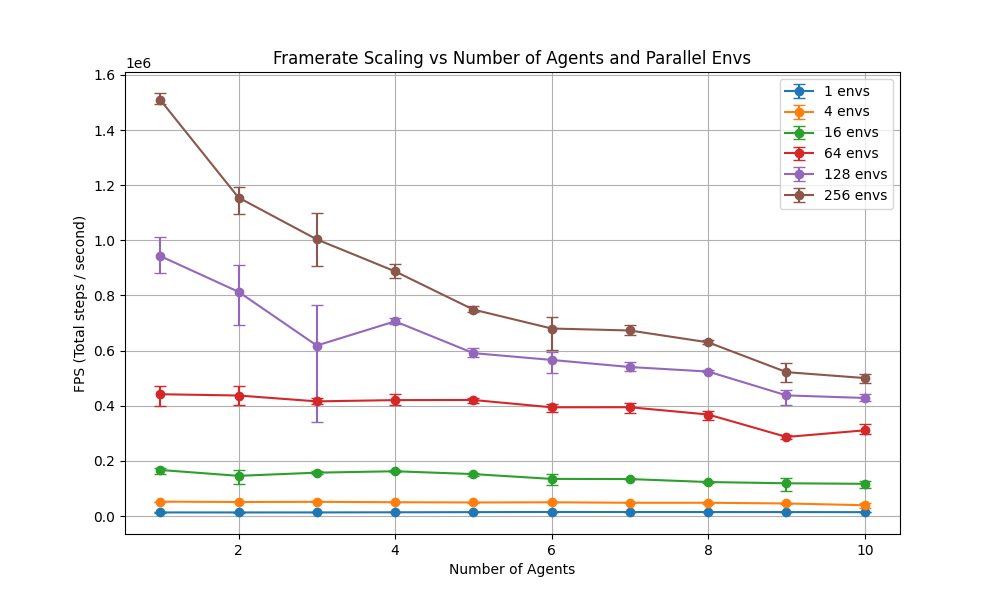
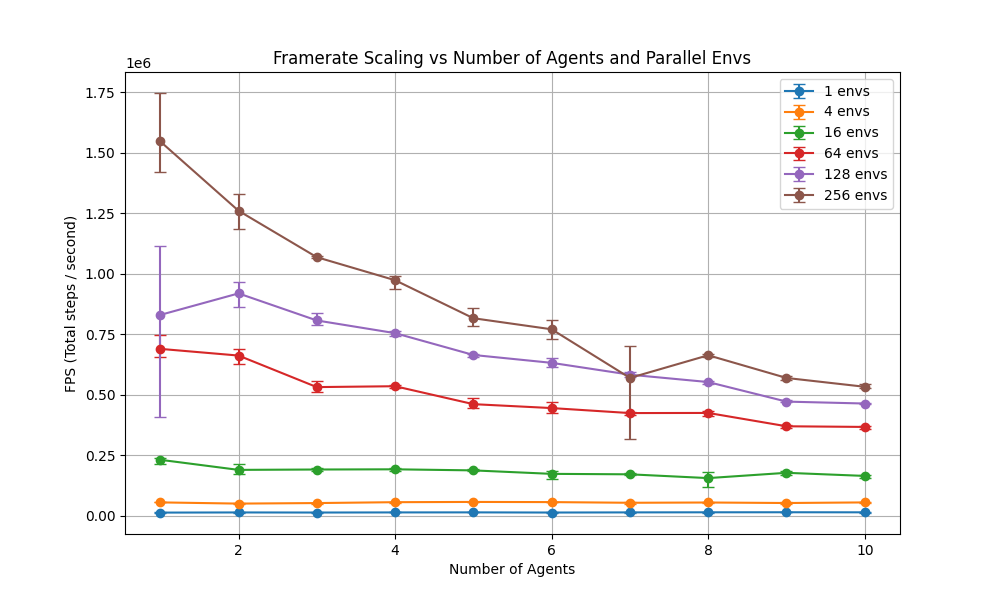
no more critical

diff --git a/src/batched_env.cpp b/src/batched_env.cpp
@@ -1024,21 +1024,8 @@ public:
             reset_env(e);
     }
 
-    // Timing accumulators
-    inline static std::chrono::duration<double> t_process_movement{0};
-    inline static std::chrono::duration<double> t_resolve_interactions{0};
-    inline static std::chrono::duration<double> t_radio_logs{0};
-    inline static std::chrono::duration<double> t_update_counters{0};
-    inline static std::chrono::duration<double> t_post_processing{0};
-    inline static std::chrono::duration<double> t_fill_torch_obs{0};
-    inline static std::chrono::duration<double> t_fill_torch_state{0};
-    inline static std::chrono::duration<double> t_reset_time{0};
-    inline static std::chrono::duration<double> t_python_overhead{0};
-    inline static std::chrono::duration<double> t_total{0};
-
     void step(py::array_t<float, py::array::c_style | py::array::forcecast> move_actions_array, py::array_t<int, py::array::c_style> radio_actions_array)
     {
-        auto t_step_start = std::chrono::high_resolution_clock::now();
         // action space is box2d[dx, dy], discrete(num radio choices)
         if ((move_actions_array.ndim() != 1) || (radio_actions_array.ndim() != 1))
             throw std::invalid_argument("actions must have shape [E*A*2] for movement and [E*A] for radio");
@@ -1048,100 +1035,37 @@ public:
         const float *act_data = move_actions_array.data();
         const int *radio_act_data = radio_actions_array.data();
 
-        std::memset(individual_rewards, 0, num_envs * n_agents * sizeof(float));
-
-        auto t0 = std::chrono::high_resolution_clock::now();
 #pragma omp parallel for schedule(static)
         for (int e = 0; e < num_envs; ++e)
         {
-            auto t_reset_s = std::chrono::high_resolution_clock::now();
+            std::memset(individual_rewards + e * n_agents, 0, n_agents * sizeof(float));
+
             if (env_terminated[e] || env_truncated[e])
                 reset_env(e);
 
-            // std::cout << "Env " << e << " process movement\n";
-            auto t1 = std::chrono::high_resolution_clock::now();
             process_agent_movement(e, act_data);
-            auto t2 = std::chrono::high_resolution_clock::now();
-            // std::cout << "Env " << e << " resolve interactions\n";
             resolve_local_interactions(e);
-            auto t3 = std::chrono::high_resolution_clock::now();
-            // std::cout << "Env " << e << " radio logs\n";
             execute_radio(e, radio_act_data);
-            auto t4 = std::chrono::high_resolution_clock::now();
-            // std::cout << "Env " << e << " update counters\n";
             update_battery_and_counters(e);
-            auto t5 = std::chrono::high_resolution_clock::now();
 
-            // std::cout << "Env " << e << " post processing\n";
             bool all_saved = (*env_views[e].poi_left == 0);
             bool all_out_of_battery = (*env_views[e].agents_left == 0);
             const bool timeout = current_frames[e] >= max_frames;
             env_terminated[e] = all_saved || all_out_of_battery;
             env_truncated[e] = timeout;
             ++current_frames[e];
-            auto t6 = std::chrono::high_resolution_clock::now();
 
-            // If we are using this environment for machine learning
-            // then fill the torch buffers accordingly
-            // std::cout << "Env " << e << " fill torch\n";
             if (mode == Mode::DECENTRALIZED || mode == Mode::CENTRALIZED)
             {
                 fill_torch_obs(e);
             }
-            auto t7 = std::chrono::high_resolution_clock::now();
             if (requires_state)
             {
                 fill_torch_state(e);
             }
-            auto t8 = std::chrono::high_resolution_clock::now();
-
-#pragma omp critical
-            {
-                t_reset_time += (t1 - t_reset_s);
-                t_process_movement += (t2 - t1);
-                t_resolve_interactions += (t3 - t2);
-                t_radio_logs += (t4 - t3);
-                t_update_counters += (t5 - t4);
-                t_post_processing += (t6 - t5);
-                t_fill_torch_obs += (t7 - t6);
-                t_fill_torch_state += (t8 - t7);
-            }
         }
-        auto t9 = std::chrono::high_resolution_clock::now();
-
-        auto t_step_end = std::chrono::high_resolution_clock::now();
-        t_total += (t_step_end - t_step_start);
-        t_python_overhead += (t0 - t_step_start) + (t_step_end - t9);
 
         ++steps_taken;
-        if (steps_taken % 10000 == 0)
-        {
-            std::cout << "[Timing after " << steps_taken << " steps]" << std::endl;
-            std::cout << "  process_agent_movement: " << t_process_movement.count() << " s" << std::endl;
-            std::cout << "  resolve_local_interactions: " << t_resolve_interactions.count() << " s" << std::endl;
-            std::cout << "  execute_radio: " << t_radio_logs.count() << " s" << std::endl;
-            std::cout << "  update_battery_and_counters: " << t_update_counters.count() << " s" << std::endl;
-            std::cout << "  post_processing: " << t_post_processing.count() << " s" << std::endl;
-            std::cout << "  fill_torch_obs: " << t_fill_torch_obs.count() << " s" << std::endl;
-            std::cout << "  fill_torch_state: " << t_fill_torch_state.count() << " s" << std::endl;
-            std::cout << "  reset_env: " << t_reset_time.count() << " s" << std::endl;
-            std::cout << "  python_overhead: " << t_python_overhead.count() << " s" << std::endl;
-            std::cout << "  TOTAL step() time: " << t_total.count() << " s" << std::endl;
-            std::cout << std::endl;
-        }
-        // Optionally reset timers if you want per-interval stats
-        //     t_process_movement = std::chrono::duration<double>(0);
-        //     t_resolve_interactions = std::chrono::duration<double>(0);
-        //     t_radio_logs = std::chrono::duration<double>(0);
-        //     t_update_counters = std::chrono::duration<double>(0);
-        //     t_post_processing = std::chrono::duration<double>(0);
-        //     t_fill_torch_obs = std::chrono::duration<double>(0);
-        //     t_fill_torch_state = std::chrono::duration<double>(0);
-        //     t_reset_time = std::chrono::duration<double>(0);
-        //     t_python_overhead = std::chrono::duration<double>(0);
-        //     t_total = std::chrono::duration<double>(0);
-
-        return;
     }
 };
 
